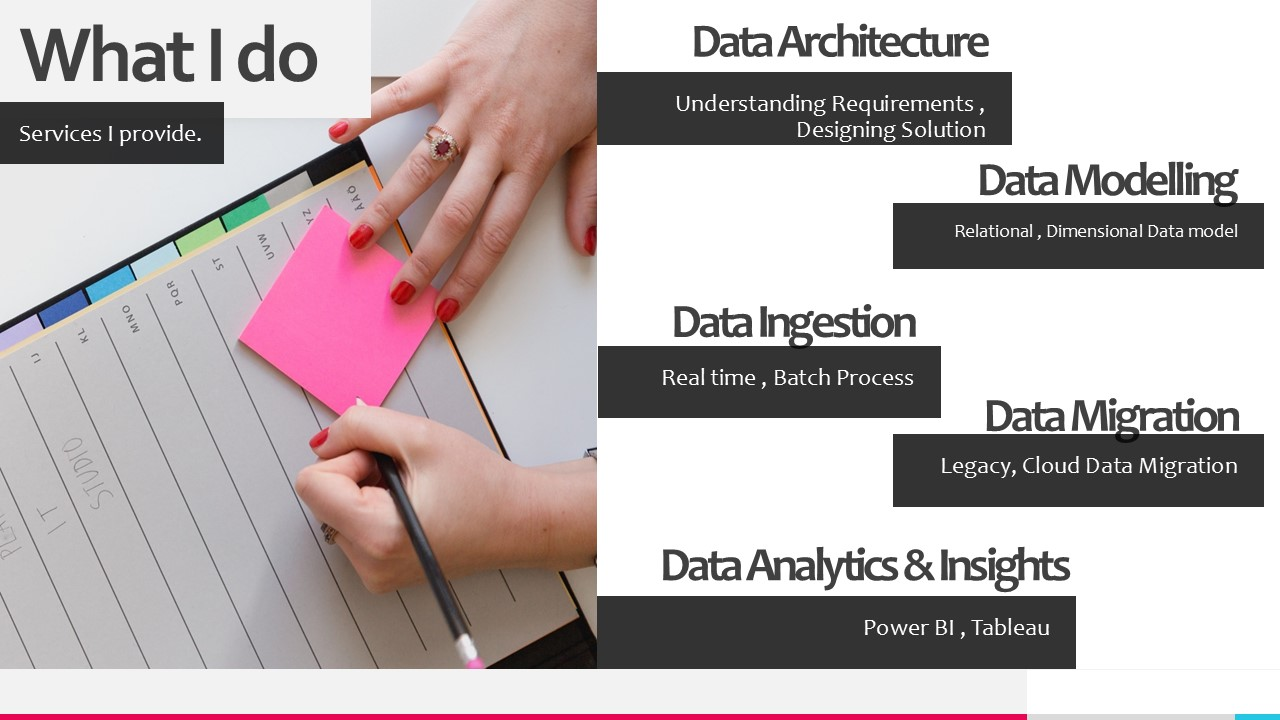
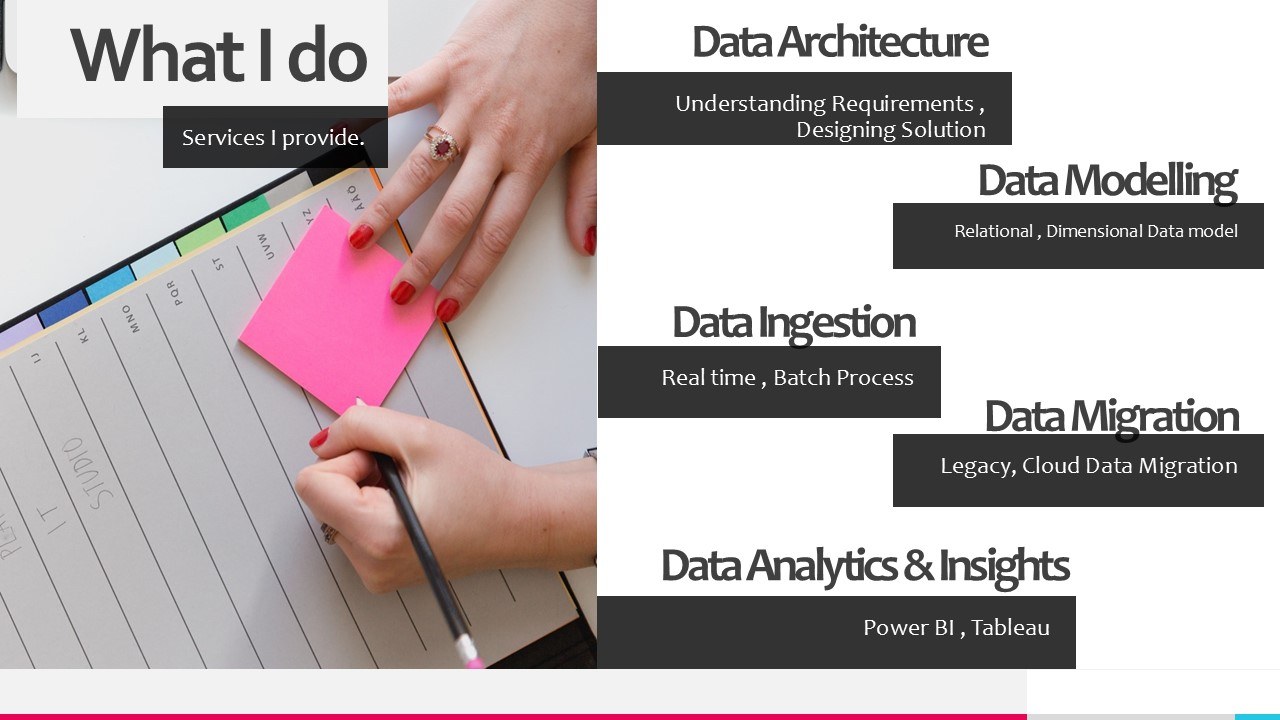
Updated index.html

Changed region(s): [[0.0, 0.0, 0.3125, 0.2444]]

diff --git a/index.html b/index.html
@@ -17,27 +17,27 @@
         body, html {
             height: 100%;
             overflow-x: hidden;
-            scroll-behavior: smooth; /* Smooth scrolling */
-            font-family: 'Poppins', sans-serif; /* Updated font */
+            scroll-behavior: smooth;
+            font-family: 'Poppins', sans-serif;
         }
 
         /* Navigation bar styling */
         nav {
-            width: 80%; /* Match slide width */
+            width: 80%;
             padding: 10px 20px;
-            background-color: rgba(255, 255, 255, 0.8); /* Subtle background */
-            margin: 0 auto; /* Center align with margin */
-            text-align: right; /* Align items to the right */
+            background-color: rgba(255, 255, 255, 0.8);
+            margin: 0 auto;
+            text-align: right;
             z-index: 1000;
             border-radius: 8px;
             box-shadow: 0px 4px 8px rgba(0, 0, 0, 0.1);
             display: flex;
-            justify-content: flex-end; /* Align items to the right */
-            gap: 15px; /* Space between menu items */
+            justify-content: flex-end;
+            gap: 15px;
         }
 
         nav a {
-            color: #333; /* Darker font color */
+            color: #333;
             text-decoration: none;
             font-weight: 600;
             font-size: 1em;
@@ -49,47 +49,31 @@
 
         /* Section styling */
         .section {
-            height: 100vh; /* Set each section to full viewport height */
-            width: 80%; /* Match width of nav */
-            margin: 0 auto; /* Remove extra margin */
+            height: 100vh;
+            width: 80%;
+            margin: 0 auto;
             display: flex;
             justify-content: center;
             align-items: center;
-            background-size: cover; /* Ensure background covers section */
-            background-repeat: no-repeat;
-            background-position: center;
-            border: 2px solid #CC3300; /* Matching red border with reduced thickness */
+            border: 0.5px solid #CC3300;
             border-radius: 10px;
             box-shadow: 0 8px 16px rgba(0, 0, 0, 0.3);
-            overflow: hidden; /* Remove any extra space around content */
+            overflow: hidden;
         }
 
-        /* Background images for each section */
-        #Home {
-            background-image: url('img/Slide1.PNG');
-        }
-        #About {
-            background-image: url('img/Slide2.JPG');
-        }
-        #Skills {
-            background-image: url('img/Slide3.JPG');
-        }
-        #Services {
-            background-image: url('img/Slide4.JPG');
-        }
-        #Portfolio {
-            background-image: url('img/Slide5.JPG');
-        }
-        #Connect {
-            background-image: url('img/Slide7.JPG');
+        .section img {
+            width: 100%;
+            height: 100%;
+            object-fit: cover;
+            border-radius: 10px;
         }
 
         /* Separator styling */
         .separator {
-            height: 1px; /* Thin line */
-            background-color: #CC3300; /* Matching red color */
-            width: 80%; /* Match section width */
-            margin: 5px auto; /* Reduced margin for a thinner separator */
+            height: 1px;
+            background-color: #CC3300;
+            width: 80%;
+            margin: 5px auto;
             border-radius: 1px;
         }
 
@@ -120,25 +104,35 @@
         <a href="#connect">Connect</a>
     </nav>
 
-    <!-- Slide Sections -->
-    <section id="home" class="section"></section>
+    <!-- Slide Sections with Images -->
+    <section id="home" class="section">
+        <img src="img/Slide1.JPG" alt="Home Section Image">
+    </section>
     <div class="separator"></div>
 
-    <section id="about" class="section"></section>
+    <section id="about" class="section">
+        <img src="img/Slide2.jpg" alt="About Section Image">
+    </section>
     <div class="separator"></div>
 
-    <section id="expertise" class="section"></section>
+    <section id="expertise" class="section">
+        <img src="img/Slide3.jpg" alt="Expertise Section Image">
+    </section>
     <div class="separator"></div>
 
-    <section id="services" class="section"></section>
+    <section id="services" class="section">
+        <img src="img/Slide4.jpg" alt="Services Section Image">
+    </section>
     <div class="separator"></div>
 
-    <!-- Portfolio Section -->
-    <section id="portfolio1" class="section"></section>
+    <section id="portfolio1" class="section">
+        <img src="img/Slide5.jpg" alt="Portfolio Section Image">
+    </section>
     <div class="separator"></div>
 
-    <!-- Connect Section -->
-    <section id="connect" class="section"></section>
+    <section id="connect" class="section">
+        <img src="img/Slide7.jpg" alt="Connect Section Image">
+    </section>
 
     <script>
         // JavaScript to hide the navigation bar after scrolling down from the home section
